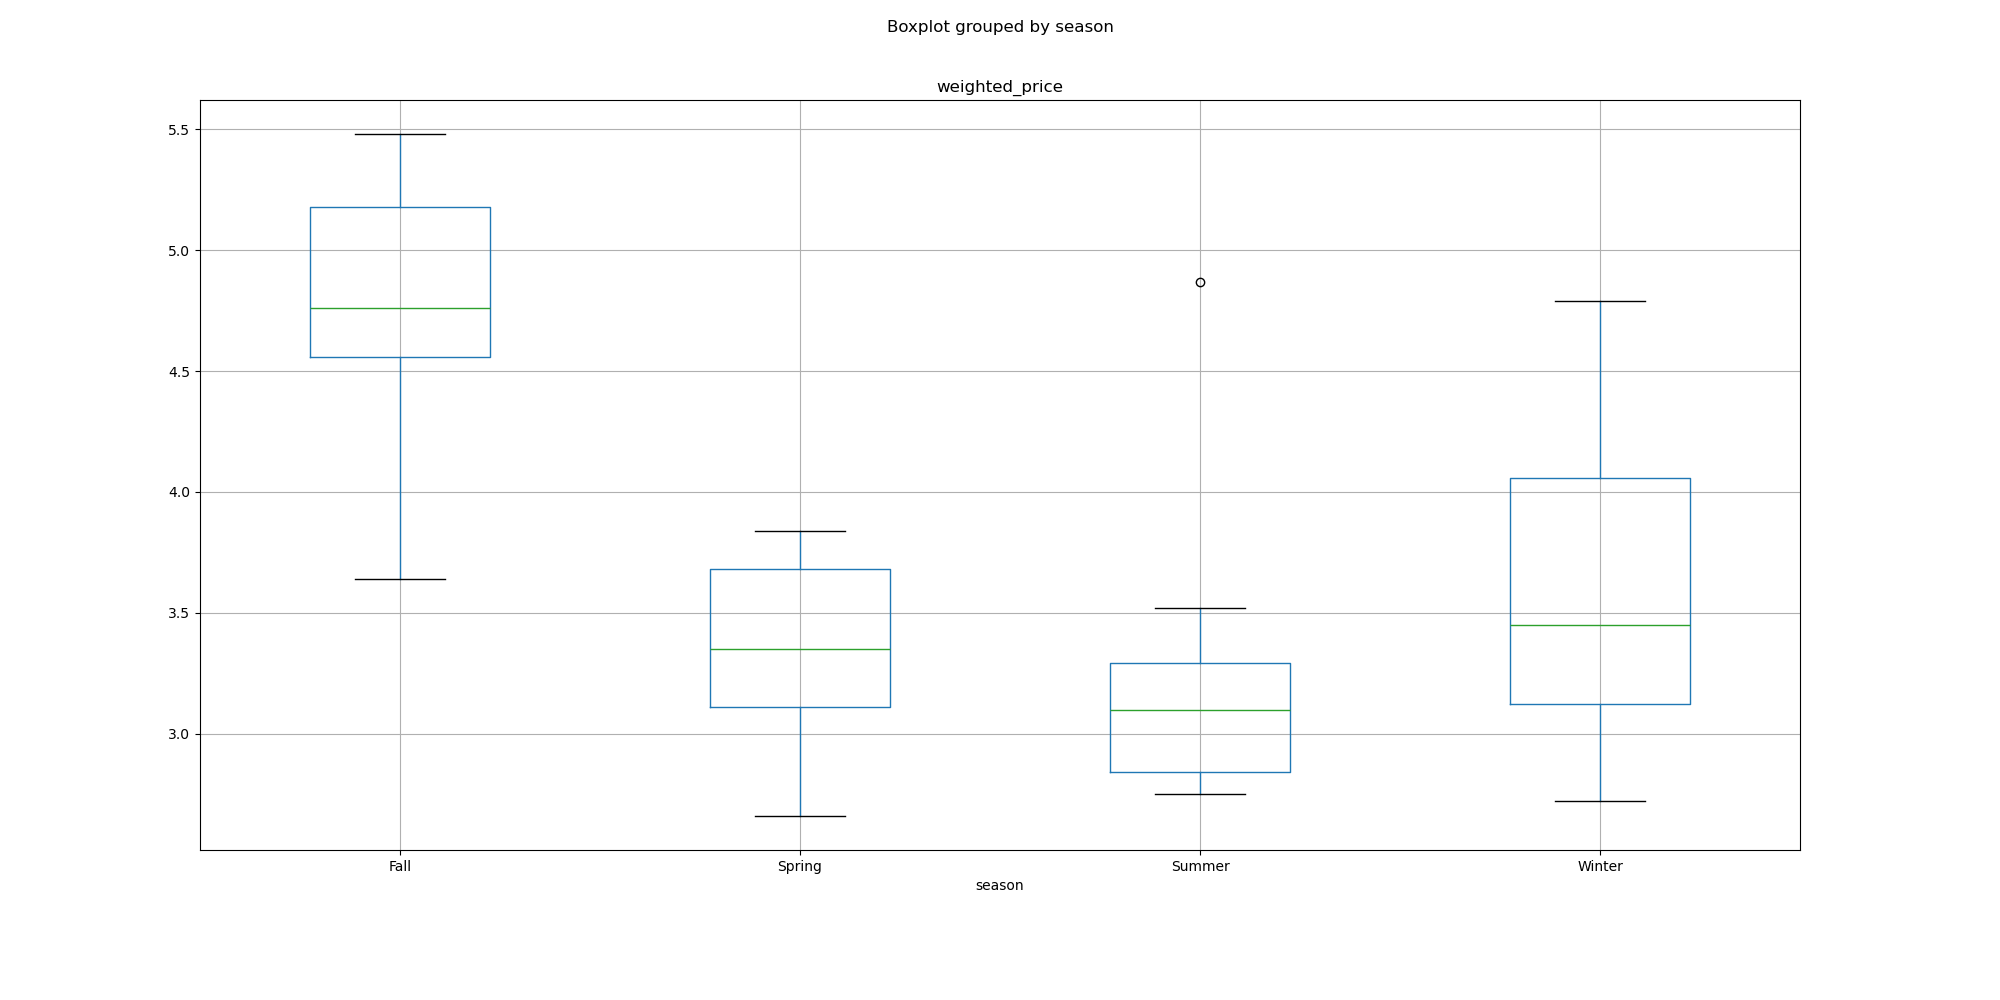
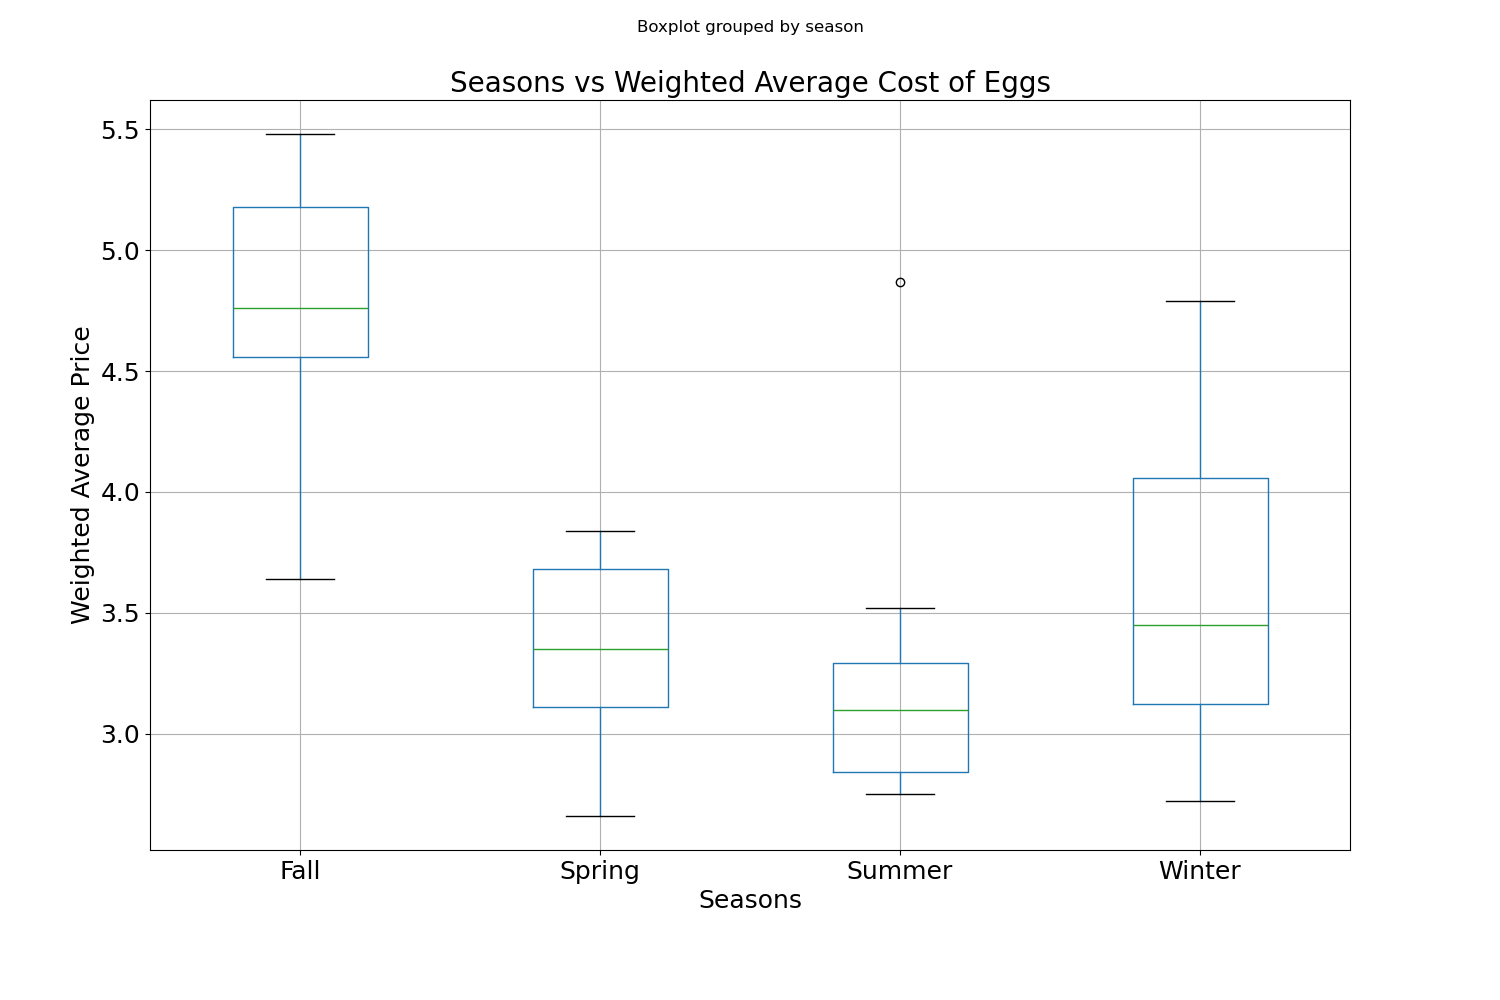
"Updated Boxplot image and Read Me Janice Branch."

diff --git a/README.md b/README.md
@@ -1,10 +1,34 @@
+# Project 1 - Janice 
+Effect of seasons on average price of eggs
+## Code Source
+Jupyter code (Eggs_Season.ipynb) within Main branch
+## Dependencies and Data Clean Up:
+Imported all dependencies, added warnings.filterwarnings('ignore'), and function that allows the display of more than one variable in a cell.  
 
-Project 1
+Dataset: Adjusted_Cost_of_Eggs.csv. Cleaned up file.
+## Season column created and season_sum_df new DataFrame
+Established the Seasons:  
 
-https://mymarketnews.ams.usda.gov/public_data?slug_id=1427
-.csv data available
-Change in cost of eggs over time period?
- - Are there any trends seasonally?
- - Are there any trends regionally?
- - difference in cost and sales of types of eggs?
+Fall= (September, October, November), Spring= (March, April, May), Summer= (June, July, August), Winter= (December, January, February)  
 
+season_df: season, month, report_begin_date, price_avg, and store_count. Needed to create a average weighted price DataFrame.  
+
+Different price_avg within the dataset hold varying degrees of importance (store_count), allowing more weight to the more significant price_avg values, resulting in a more accurate representation of the overall data.  
+
+season_sum_df DataFrame has the average weighted price by season for analysis.
+## Summary Statistics and Mean Bar Chart by Seasons
+Generated a summary statistics table of mean, median, variance, standard deviation, and SEM of the weighted price average.  
+
+Generated a bar plot showing the weighted_price mean for each season. Graph can be found in Project 1 folder (Seasons_Bar_Graph.png)
+## Comparison of seasons versus average weighted price
+Calculated the IQR and quantitatively determine if there are any potential outliers.  
+
+Created boxplot grouped by season. Graph can be found in Project 1 folder (Boxplot_grouped_Season.png).  
+
+Performed Analysis on ANOVA. Results can be found in presentation and within Jupyter notebook discussion about the ANOVA.
+## Correlation and Regression
+Created a scatter plot and regression on relationship between months and weighted_price.
+## References:
+United States Department of Agriculture - Agricultural Marketing Service. Report: National Weekly Sell Egg Inventory for 2024.  
+
+Used google for ANOVA analysis, accessed February 2025. (Group members for help in coding?)
